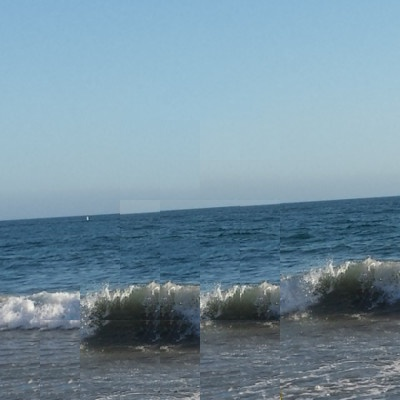
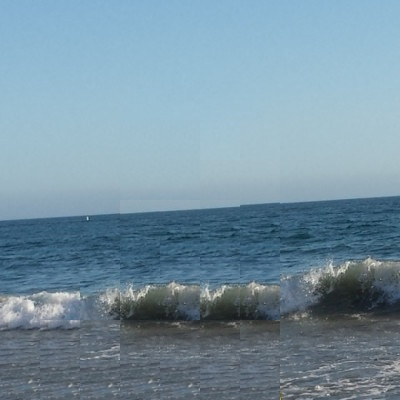
some refine

Changed region(s): [[0.12, 0.51, 0.72, 1.0], [0.09, 0.96, 0.15, 1.0], [0.09, 0.9, 0.12, 0.93]]

diff --git a/main.py b/main.py
@@ -46,21 +46,32 @@ for index in indicesContainTim:
 fineBoxesWithoutTim = util.getFineBoxesWithoutTim(boxesContainTim)
 #drawBox(fineBoxesWithoutTim[1], (255, 0, 0))
 
+
 while len(boxesContainTim) > 0:
     print(len(boxesContainTim))
     nextIterationBoxes = []
+    processedTimBoxes = []
+    
     for boxTim in boxesContainTim:
         neighbourBoxes = util.neighbourBox(boxTim)
         neighbourAndNotTimBoxes = []
         
+        shouldSkip = False
         for neighbourBox in neighbourBoxes:
             if not neighbourBox.box in boxesContainTim:
                 neighbourAndNotTimBoxes.append(neighbourBox)
                 #drawBox(neighbourBox.box, (255, 0, 0))
+            if neighbourBox.box in processedTimBoxes:
+                shouldSkip = True
+        if shouldSkip:
+            nextIterationBoxes.append(boxTim)
+            continue
         
         if len(neighbourAndNotTimBoxes) <= 1 :
             nextIterationBoxes.append(boxTim)
         else:
+            processedTimBoxes.append(boxTim)
+            
             width = boxTim.width
             height = boxTim.height
             w0 = boxTim.wUpperLeft

diff --git a/Util.py b/Util.py
@@ -218,8 +218,8 @@ class Util:
         return False
     
     def getFineBoxesWithoutTim(self, boxesContainTim):
-        wFineStride = 8 # int(self.wStride / 6)
-        hFineStride = 8 # int(self.hStride / 6)
+        wFineStride = 4 # int(self.wStride / 6)
+        hFineStride = 4 # int(self.hStride / 6)
         traversedBoxes = []
         #traversedImages = []
         
